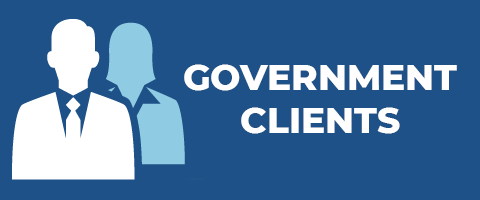
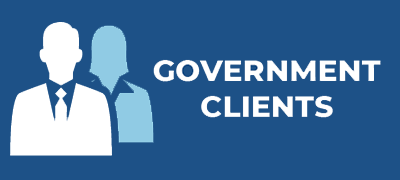
Updated mobile stylings

diff --git a/_includes/cso.html b/_includes/cso.html
@@ -5,14 +5,38 @@
             procure innovative commercial items, technologies and services using the Commercial Solutions 
             Opening (CSO) porcedure. To learn more, visit the Procurment Innovation Resource Center (PIRC) website.</p>
         <h2>Interested in learning more?</h2>
+        <br>
     </div>
 </div>
 
-<div class="flex-wrapper-big">
+<div class="flex-wrapper-big learnmore-full">
     <div class="flex-wrapper">
         <div class="learnblock learn-gov"></div>
         <div class="learnblock stack-top greyborder">
             <h2>Government Clients</h2>
+            <p class="learnblock-hover-text">Our FEDSIM tean assists clients with many types of acquisitions and will work with you 
+                to determine the best acquisition strategy to fulfill your requirements. Reach out to 
+                us at <a href="mailto:fedsim@gsa.gov">fedsim@gsa.gov</a> to see how we can help.</p>
+        </div>
+    </div>
+
+<div class="bio-spacer"></div>
+
+    <div class="flex-wrapper">
+        <div class="learnblock learn-ind"></div>
+        <div class="learnblock stack-top greyborder">
+            <h2>Industry Partners</h2>
+            <p class="learnblock-hover-text">You can respond to compete on an opportunity by submitting a brief about your solution. 
+                If there is a good match between your solution and our client's requirements, 
+                you will be asked to provide a full proposal.</p>
+        </div>
+    </div>
+</div>
+
+<div class="flex-wrapper-big learnmore-mobile">
+    <div class="flex-wrapper">
+        <div class="learnblock">
+            <div class="block-header">Government Clients</div>
             <p>Our FEDSIM tean assists clients with many types of acquisitions and will work with you 
                 to determine the best acquisition strategy to fulfill your requirements. Reach out to 
                 us at <a href="mailto:fedsim@gsa.gov">fedsim@gsa.gov</a> to see how we can help.</p>
@@ -20,18 +44,15 @@
     </div>
 
     <div class="flex-wrapper">
-        <div class="learnblock learn-ind"></div>
-        <div class="learnblock stack-top greyborder">
-            <h2>Industry Partners</h2>
+        <div class="learnblock">
+            <div class="block-header">Industry Partners</div>
             <p>You can respond to compete on an opportunity by submitting a brief about your solution. 
                 If there is a good match between your solution and our client's requirements, 
                 you will be asked to provide a full proposal.</p>
         </div>
     </div>
 </div>
-
-<br>
-
+<hr class="highlight-line">
 <div class="flex-wrapper-big">
     <div class="infoblock">
         <h3>Submit a Commercial Solutions Opening (CSO) Solution Brief</h3>
@@ -46,22 +67,26 @@
     <div class="flex-wrapper">
         <div class="learnblock withborder">
             <div class="block-header">CSO Area(s) of Interest</div>
-            <p><span style="font-weight: bold;">CSO Solicitation:</span>
+            <p><br>
+                <span style="font-weight: bold;">CSO Solicitation:</span>
             <br>AI for Regulatory Streamlining
             <br><span style="font-weight: bold;">Due Date:</span> July 20th at 12:00 noon EST</p>
         </div>
     </div>
+
+    <div class="bio-spacer"></div>
+    
     <div class="flex-wrapper">
         <div class="learnblock withborder">
             <div class="block-header">What We Are Looking for in the Solution Brief</div>
             <div>
-                <p>Please see the specific instructions in the solicitation. However, the solution briefs may include:
+                <p class="learn-text">Please see the specific instructions in the solicitation. However, the solution briefs may include:</p>
                 <ol>
                     <li>Title Page</li>
                     <li>Solution Consept</li>
                     <li>Company Viability</li>
                 </ol>
-                <br></p>
+                <br>
             </div>
         </div>
     </div>

diff --git a/_assets/css/index.scss b/_assets/css/index.scss
@@ -334,16 +334,17 @@ hr.footer-border{
 .block-header, .block-header-grey{
   padding: 10px;
   color: white;
-  font-size: 1.4em;
   font-weight: 600;
   text-transform: uppercase;
 }
 .block-header{
   background-color: var(--fedsim-blue1);
+  font-size: 1.2em;
 }
 
 .block-header-grey{
   background-color: var(--fedsim-darkgrey);
+  font-size: 1.4em;
 }
 
 .tallblock{
@@ -359,12 +360,12 @@ hr.footer-border{
 
 @media screen and (max-width: 414px){
   .tallblock{
-    width: 330px;
+    width: 370px;
     height: auto;
   }
 
   .infoblock{
-    width: 300px;
+    width: 370px;
   }
   
   .modalblock{
@@ -446,21 +447,45 @@ hr.footer-border{
 }
 
 .learnblock{
-  width: 480px;
-  height: 200px;
+  width: 400px;
+  height: 190px;
   margin: 10px;
   display: block;
   text-align: center;
 }
 
+@media screen and (max-width: 414px){
+  .learnblock{
+    width: 380px;
+    margin: 4px;
+  }
+}
+
+@media screen and (max-width: 375px){
+  .learnblock{
+    width: 355px;
+    margin: 4px;
+  }
+}
+
 .learnblock ol, .learnblock ul{
-  width: 50%;
+  width: 60%;
   text-align: left;
   margin: auto;
 }
 
 .learnblock p{
   margin-block-start: 0.4em;
+  font-size: 1.1em;
+}
+
+.learnblock-hover-text{
+  font-size: 1em!important;
+}
+
+.learn-text{
+  font-size: 0.9em!important;
+  margin-block-end: 0.7em;
 }
 
 .learn-gov{
@@ -472,6 +497,23 @@ hr.footer-border{
   background-image: asset-url("cso2.png");
   background-color: var(--fedsim-darkgrey);
 }
+
+.learnmore-mobile{
+display: none;
+}
+
+@media screen and (max-width: 414px){
+  .learnmore-full{
+    display: none;
+  }
+
+  .learnmore-mobile{
+    display: flex;
+  }
+}
+
+
+
 
 .stack-top{
   z-index: 9;
@@ -487,6 +529,7 @@ hr.footer-border{
 
 .stack-top h2{
   color: var(--fedsim-darkgrey);
+  margin: 10px;
 }
 
 .block-text-med, .block-text-big, .block-num-med, .block-num-big{
